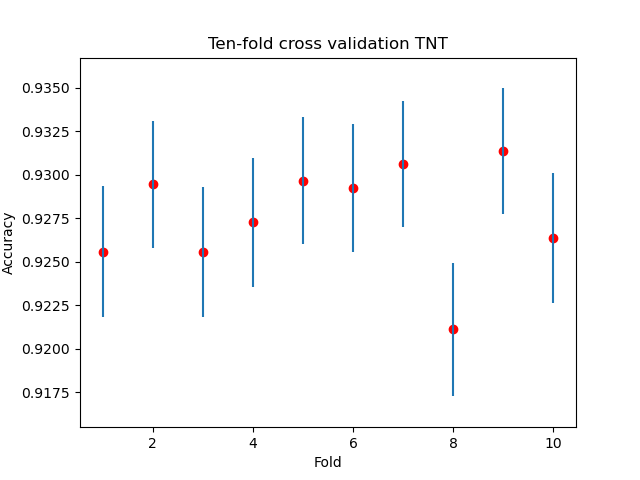
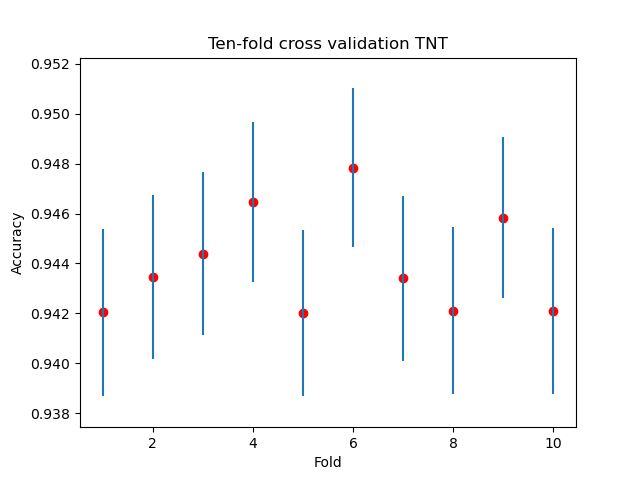
fix task3: suffix_size must be negative for sufixes, positive is for prefixes

diff --git a/task3.py b/task3.py
@@ -11,7 +11,7 @@ def tnt_smoothing_test():
         print(str(acc_array[i]) + " +- " + str(ic[i]))
 
     for suffix_size in range(1, 5):
-        acc_array = utils.fold_cross_validation(corpus, 10, True, 'TNT', suffix_size)
+        acc_array = utils.fold_cross_validation(corpus, 10, True, 'TNT', -1*suffix_size)
         ic = [utils.interval_trust(acc,n) for acc in acc_array]
         utils.plot_model(results=acc_array, ic=ic, fold=10, model='TNT')
         print("Affix length : " + str(suffix_size))
